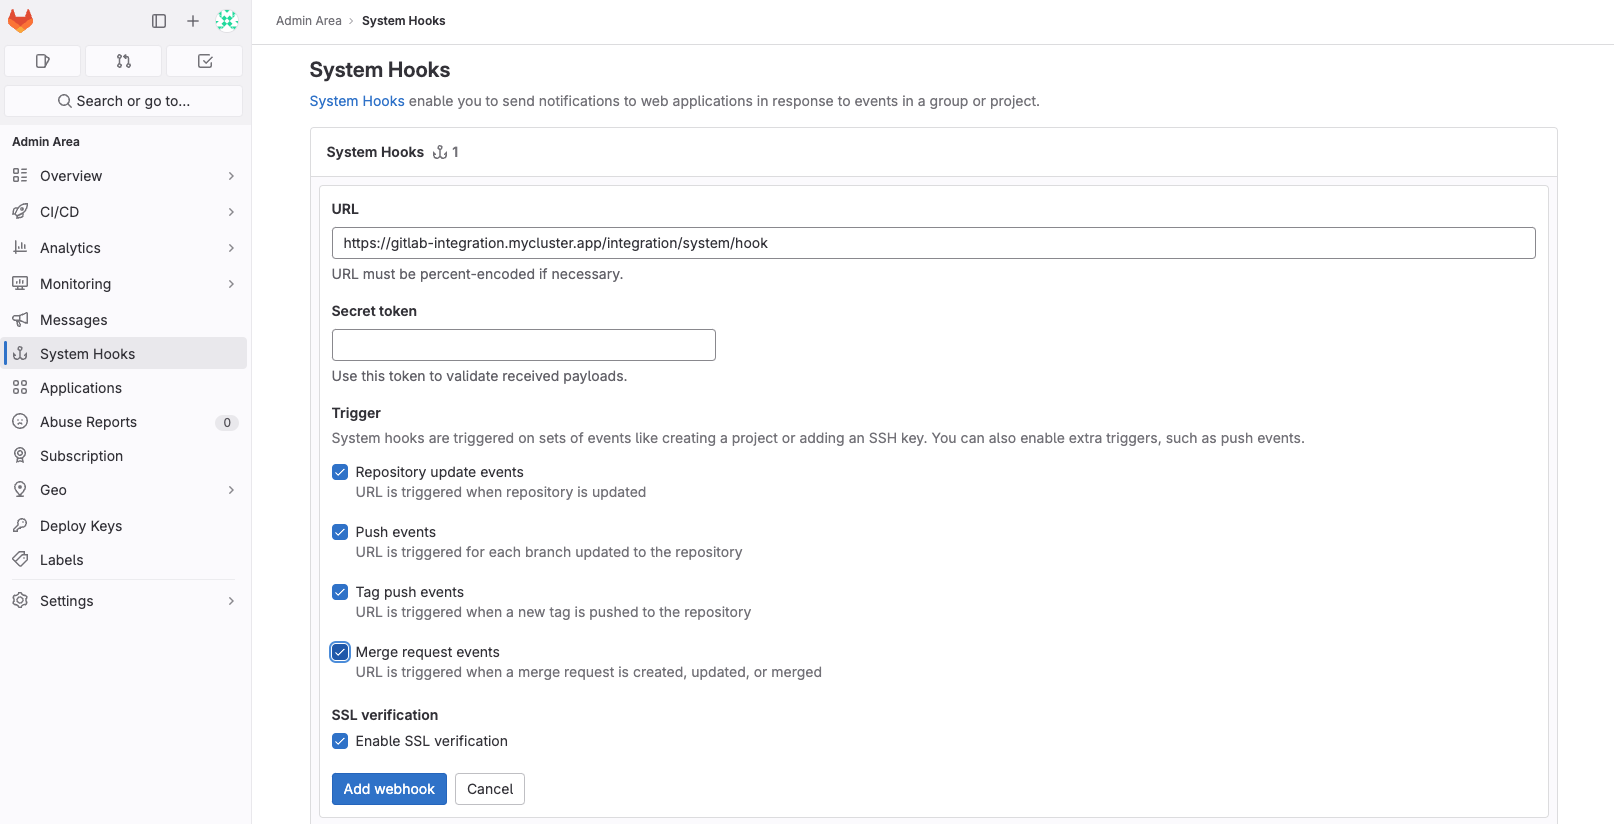
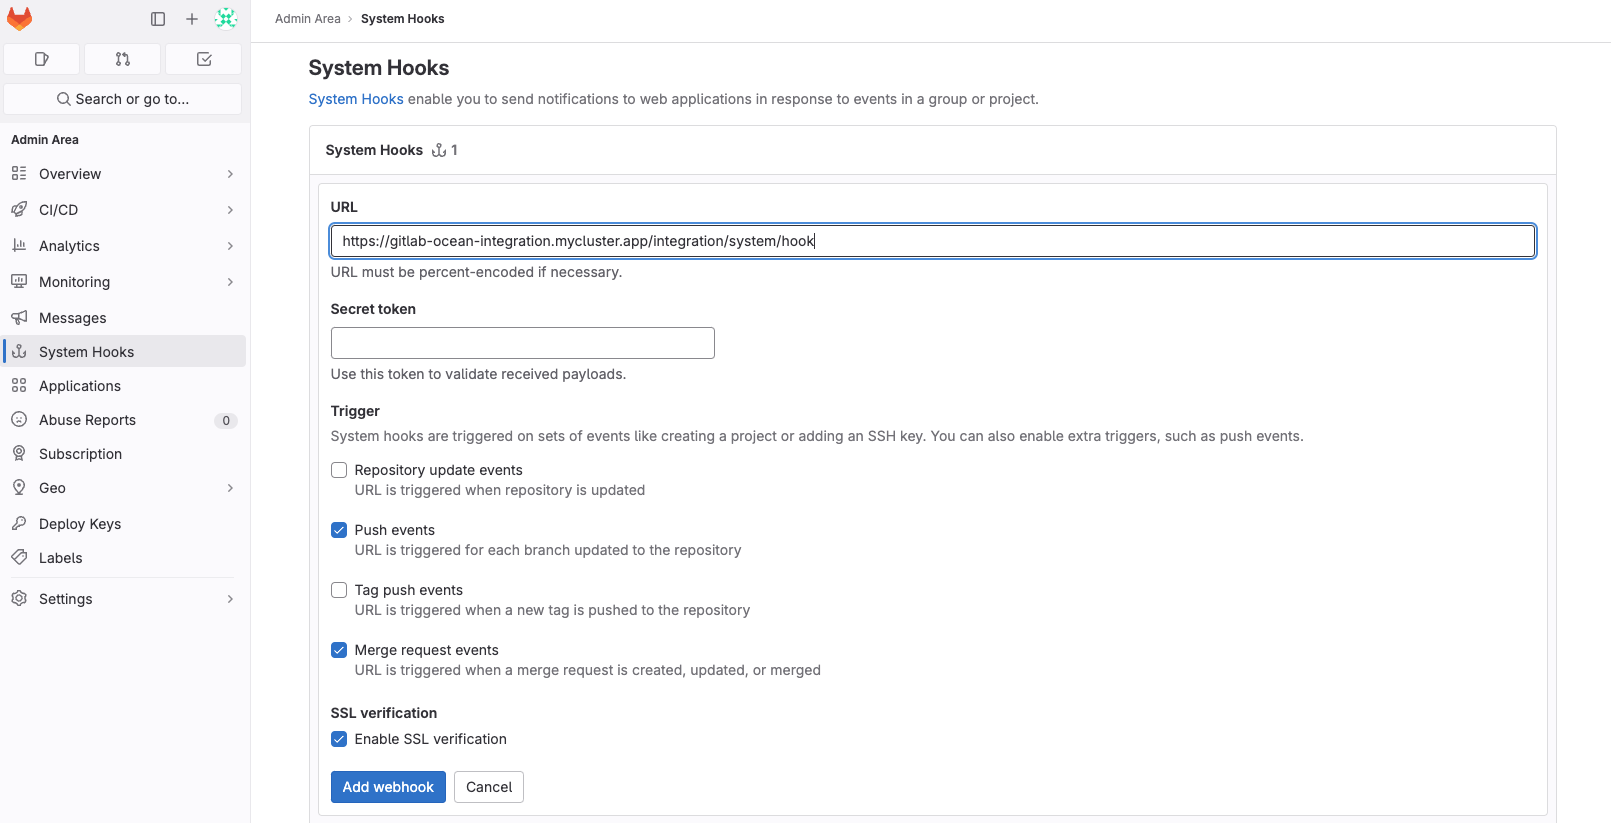
update

diff --git a/docs/build-your-software-catalog/sync-data-to-catalog/git/gitlab/installation.md b/docs/build-your-software-catalog/sync-data-to-catalog/git/gitlab/installation.md
@@ -115,6 +115,4 @@ In both options you'll need to provide the `useSystemHook` parameter with the va
     - `push`
     - `merge_request`
 
-    But you can choose all events as we will roll out support for more events in the future.
-
   ![GitLab System Hook](../../../../../static/img/integrations/gitlab/GitLabSystemHook.png)
